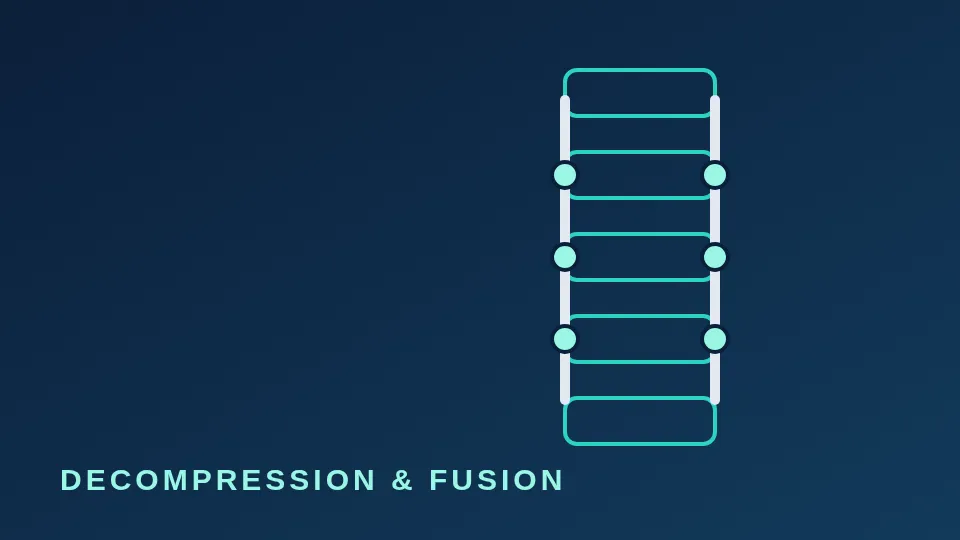
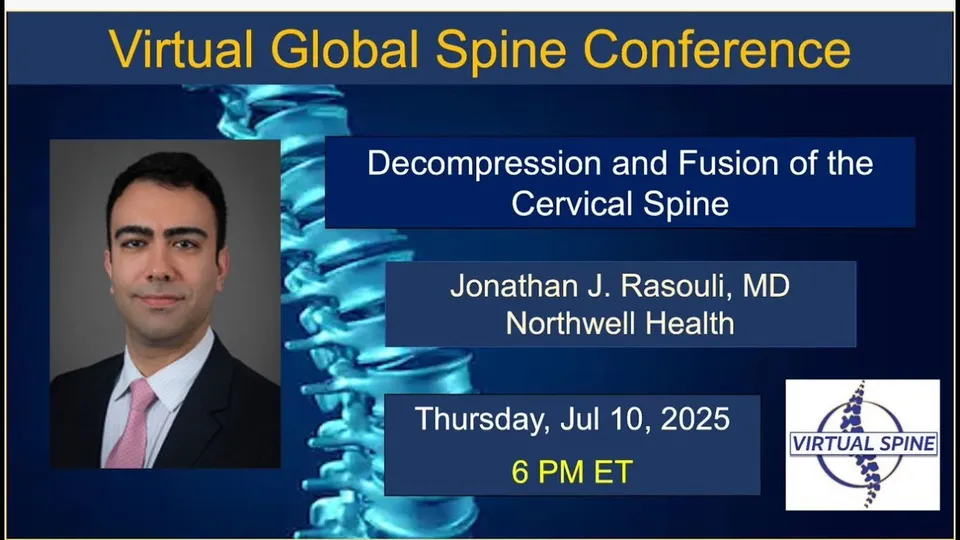
Media lectures: use original YouTube thumbnails for post-op and fusion covers (metadata stripped)

diff --git a/pages/Media.tsx b/pages/Media.tsx
@@ -33,8 +33,8 @@ const TALKS = [
 
 // Virtual Global Spine Conference lectures (IDs verified via YouTube oEmbed, Oct 2026).
 const LECTURES = [
-  { id: 'dTyFv3gGkQA', cover: '/images/lectures/postop.webp', title: 'Post-operative Evaluation of the Spine', year: '2026' },
-  { id: 'LDS1SbuJZbE', cover: '/images/lectures/fusion.webp', title: 'Decompression and Fusion of the Cervical Spine', year: '2025' },
+  { id: 'dTyFv3gGkQA', cover: '/images/lectures/postop.webp', cover2x: '/images/lectures/postop@2x.webp', title: 'Post-operative Evaluation of the Spine', year: '2026' },
+  { id: 'LDS1SbuJZbE', cover: '/images/lectures/fusion.webp', cover2x: '/images/lectures/fusion@2x.webp', title: 'Decompression and Fusion of the Cervical Spine', year: '2025' },
   { id: 'OY_lQBHeffM', cover: '/images/lectures/arthroplasty.webp', cover2x: '/images/lectures/arthroplasty@2x.webp', title: 'Cervical Arthroplasty: Where Do We Stand in 2025?', year: '2025' },
 ];
 
